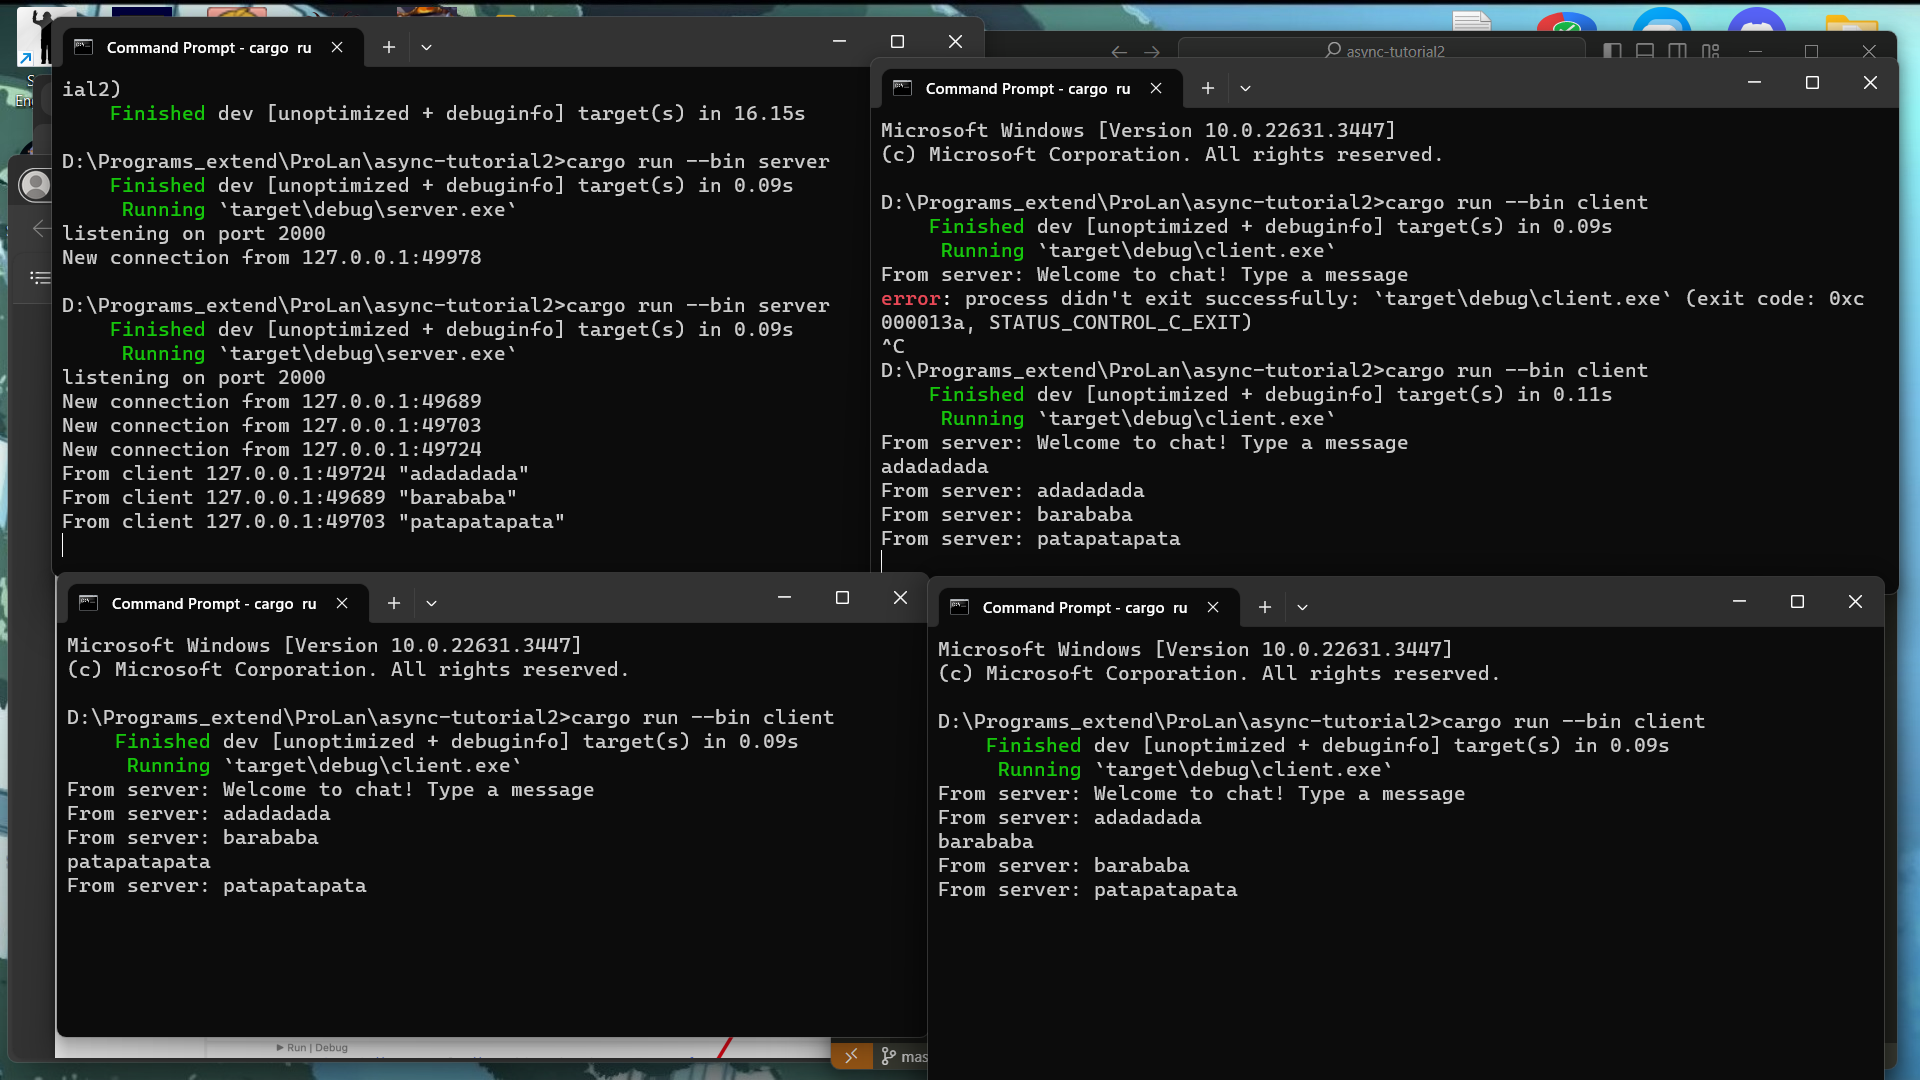
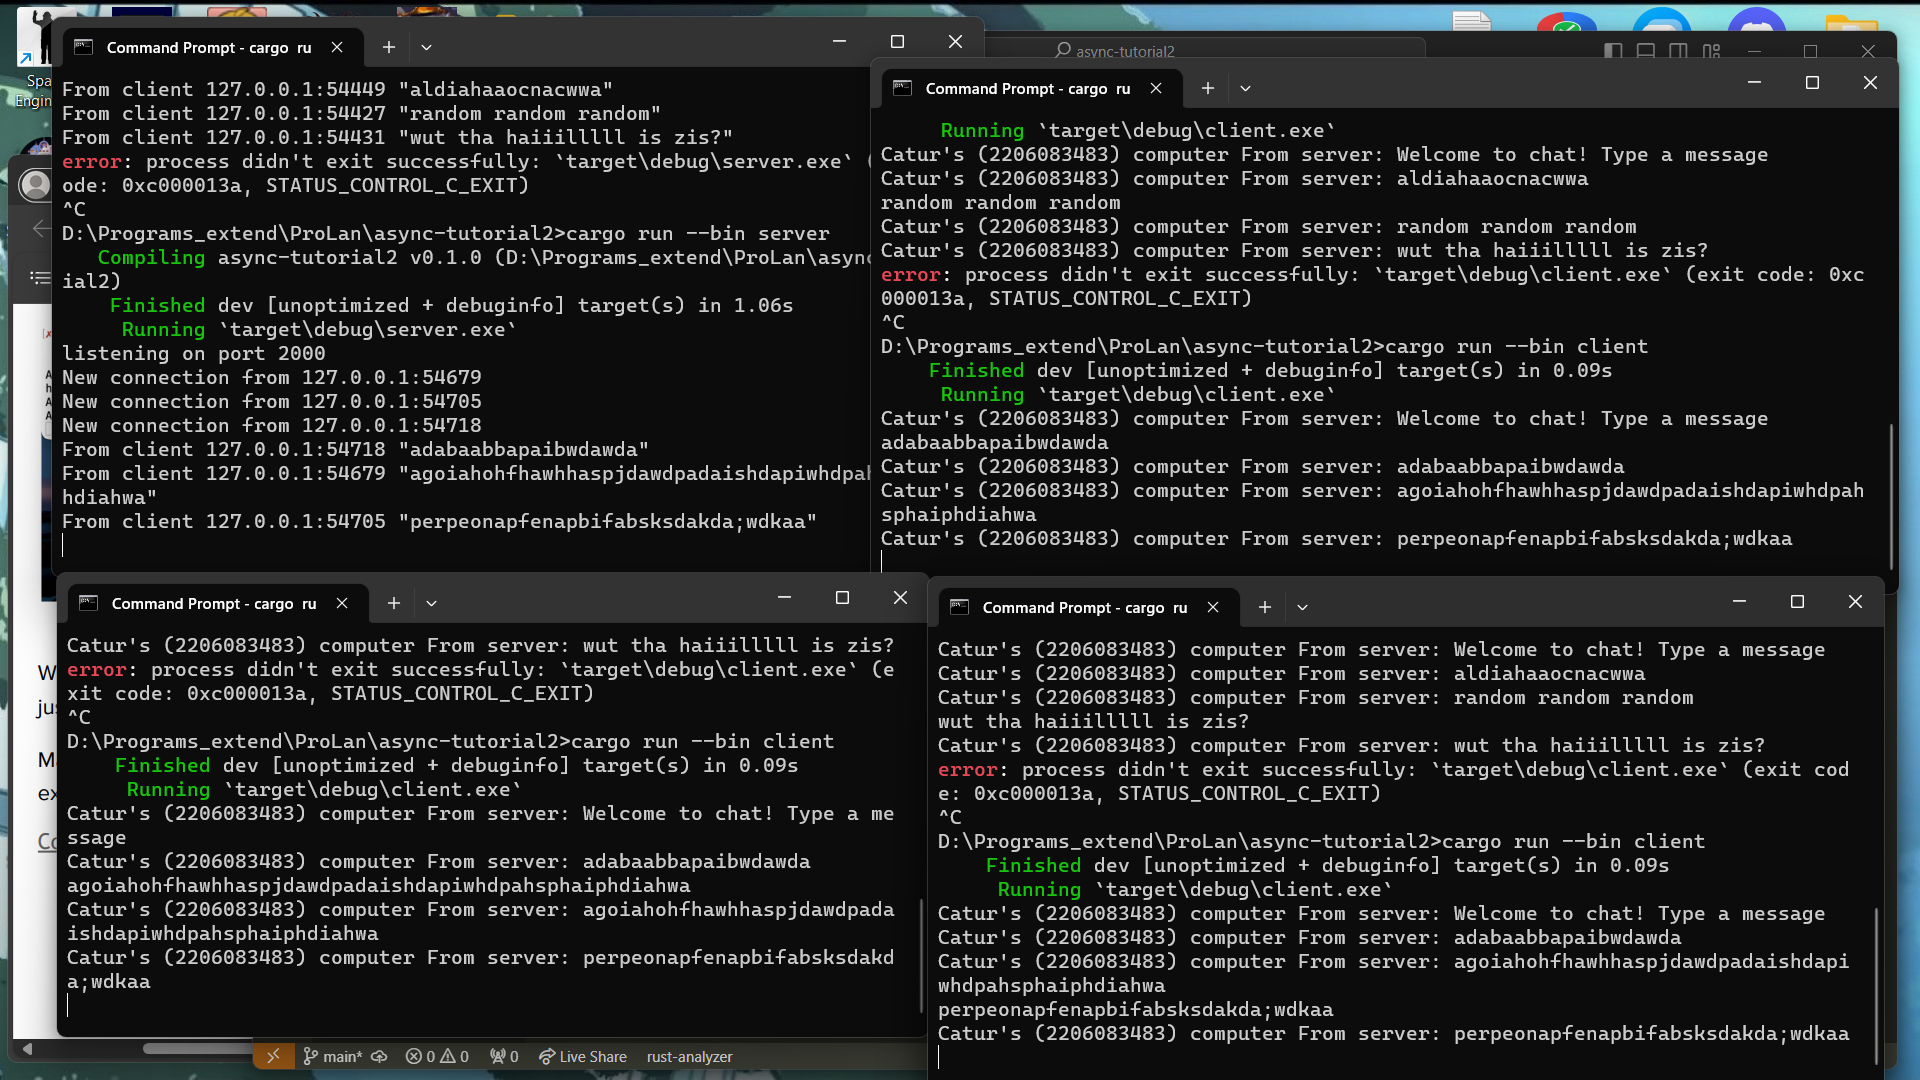
Experiment 2.3: Small changes, add IP and Port

diff --git a/src/bin/server.rs b/src/bin/server.rs
@@ -26,7 +26,7 @@ async fn handle_connection(
                     Some(Ok(msg)) => {
                         if let Some(text) = msg.as_text() {
                             println!("From client {addr:?} {text:?}");
-                            bcast_tx.send(text.into())?;
+                            bcast_tx.send(addr.to_string() + ": "  + text.into())?;
                         }
                     }
                     Some(Err(err)) => return Err(err.into()),

diff --git a/src/bin/client.rs b/src/bin/client.rs
@@ -20,7 +20,7 @@ async fn main() -> Result<(), tokio_websockets::Error> {
               match incoming {
                   Some(Ok(msg)) => {
                       if let Some(text) = msg.as_text() {
-                          println!("From server: {}", text);
+                          println!("Catur's (2206083483) computer From server: {}", text);
                       }
                   },
                   Some(Err(err)) => return Err(err.into()),

diff --git a/README.md b/README.md
@@ -6,3 +6,7 @@ Untuk dapat menjalankan server dan client secara terpisah, kita harus membuat me
 2. Modify 
 ![Screenshot setelah di ganti](screenshot/result_2.png)
 Hal yang harus diganti agar program bisa berjalan seperti seharusnya adalah memodifikasi port yang dibind oleh TCPListener menjadi 8080 di fungsi main server.rs. Dapat dilihat bahwa socket yang digunakan oleh server bukanlah webserver melainkan TCP Socket dan listener yang digunakan akan menunggu koneksi apapun yang dilakukan ke uri yang dibind yaitu localhost:8080 dan mengaccept koneksi secara otomatis. Pendefinisian dari penggunaan TCP pada server dilakukan dengan menggunakan modul TCPListener yang disediakan oleh rust dari tokio.
+
+3. add IP and port
+![Screenshot setelah ditambah ip dan port](screenshot/result_3.png)
+Hal yang saya ubah adalah bagian yang berada di dalam fungsi handle connection pada server. Dapat dilihat di dalam loopnya, ketika server mendapat sebuah pesan, server akan mengeprint addres asal pesan tersebut dan mengirimnya kembali ke semu client. Di bawah fungsi yang mengeprint address dan pesan dari client, terdapat fungsi yang langsung mengirim pesan ke semua client yaitu bcast_tx.send(text.into())?. Yang saya ubah adalah saya menambahkan address yang diubah menjadi string (serta ": " agar rapi) ke dalam fungsi send tersebut sehingga client bisa mendapat address dari client lainnya (ip dan port).
